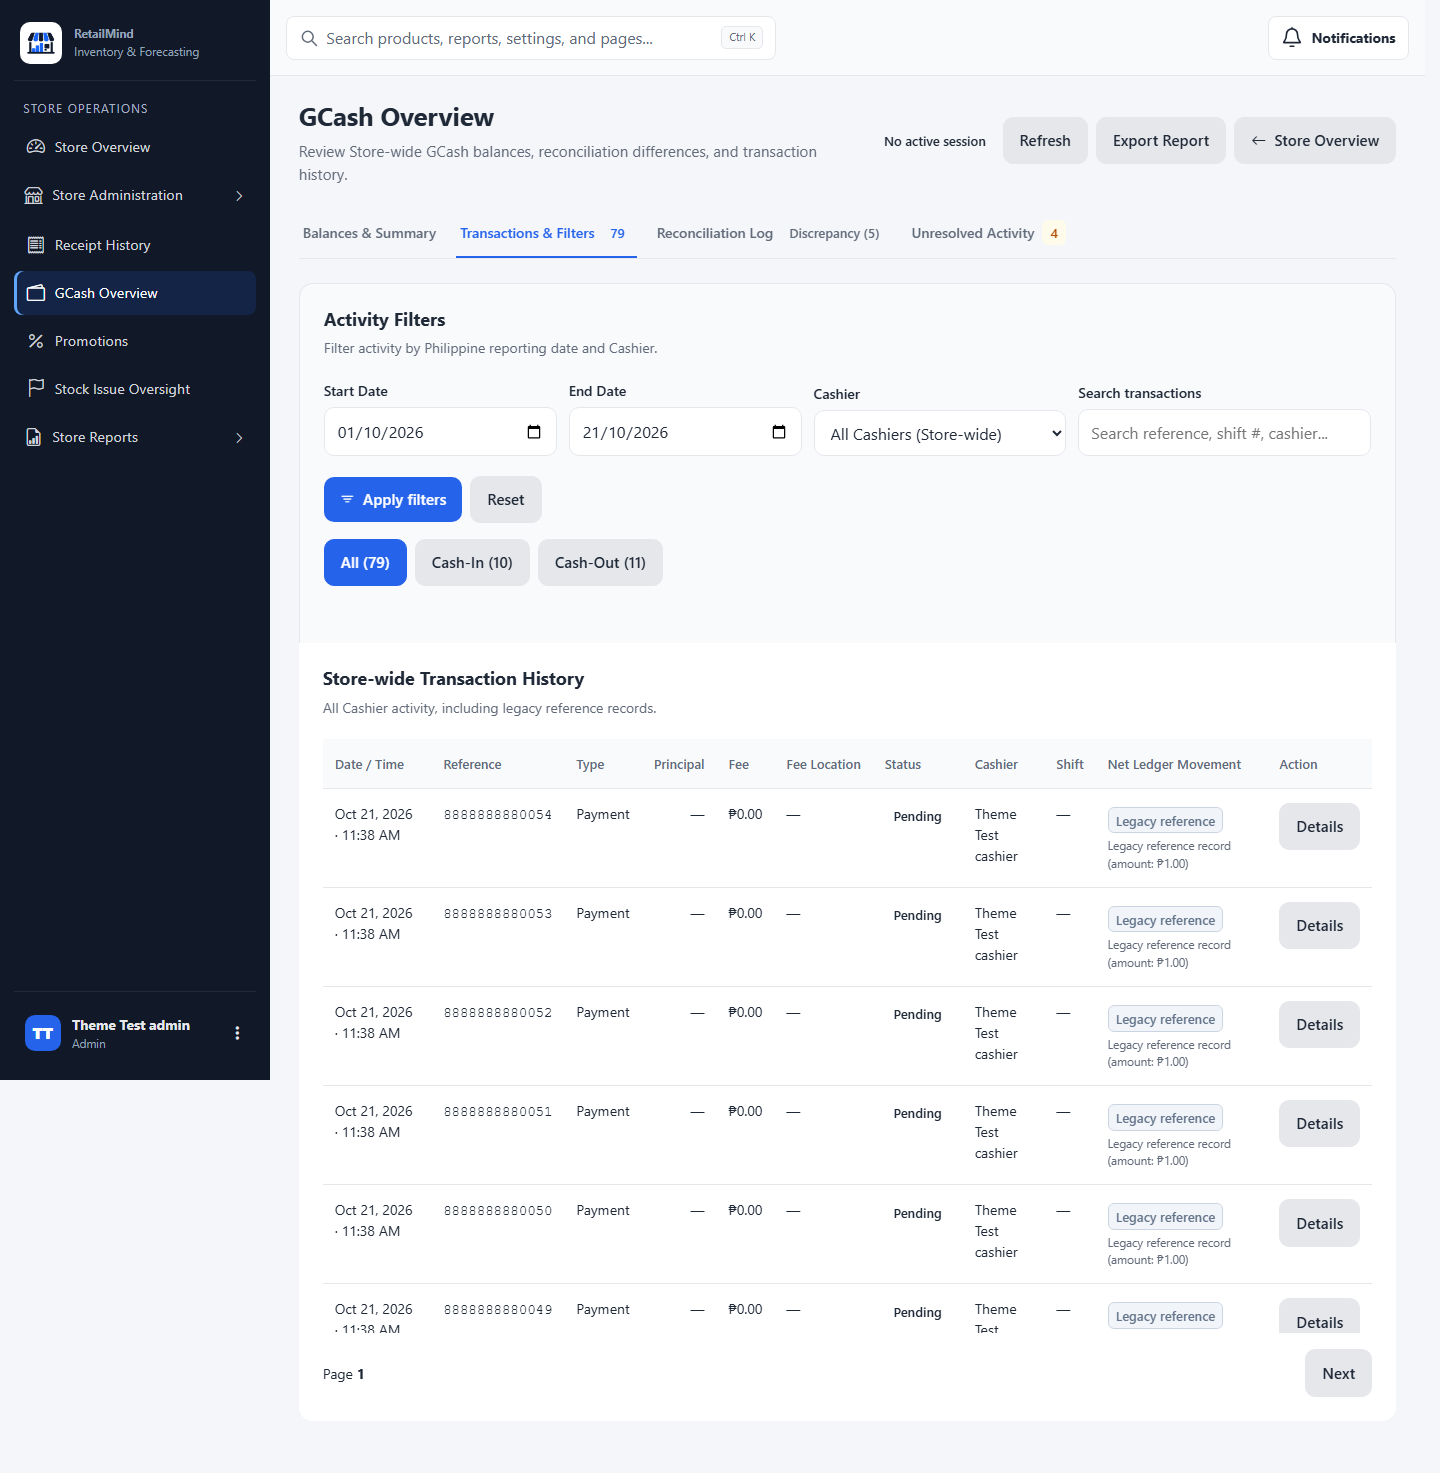
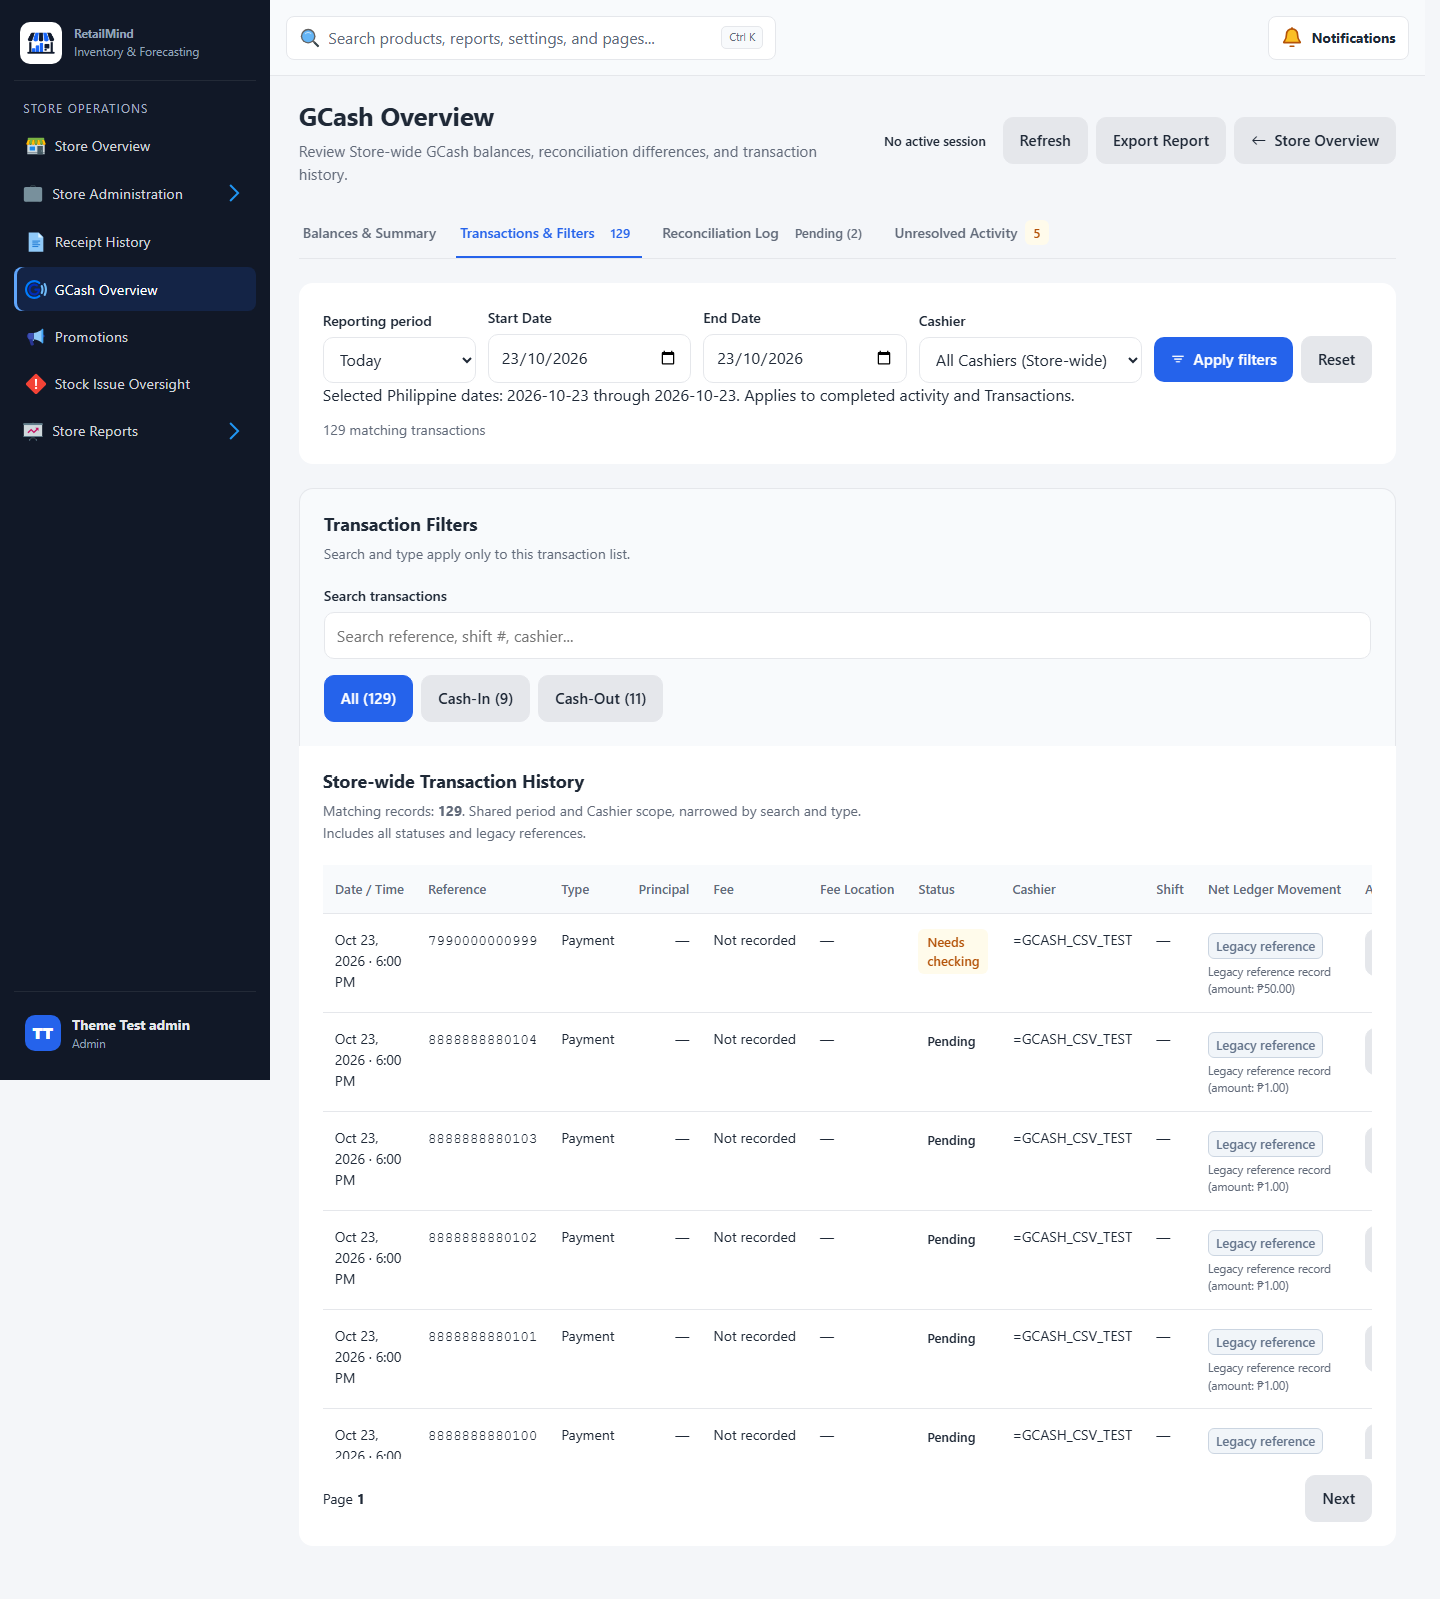
test(gcash): capture final overview desktop and mobile states (#276)

diff --git a/.impeccable/surfaces/gcash-admin-overview.md b/.impeccable/surfaces/gcash-admin-overview.md
@@ -43,3 +43,7 @@ Finish review identified one scored fix: long tables made a 50-row page excessiv
 - Final focused `gcash_admin_overview_browser_test.js` passed: Today/Month-to-date/custom scopes, independent fund and review evidence, all 105 filtered CSV rows across three pages, safe legacy/formula content, an isolated HTTP staging failure returning 503 without an attachment, request races, bounded tables, keyboard tabs, linked-adjustment details, authorization/CSRF, waiver and Verify & Clear.
 - Final QA captures in `.impeccable/review/`: `desktop.png`, `mobile.png`, `desktop-transactions.png`, `mobile-transactions.png`, `desktop-reconciliation.png`, `mobile-reconciliation.png`, `desktop-unresolved.png`, `mobile-unresolved.png`. Desktop: 1440×1080; mobile: 390×1080. These are QA screenshots, not shipping rasters; raster provenance does not apply.
 - No claim of exhaustive screen-reader, dark-theme, cross-browser or external GCash synchronization verification. Detector ran once; its advisories did not authorize a global redesign.
+
+## Specification #276 finish
+
+Disposition: ship. Desktop and mobile captures retain the four task sections, separate fund evidence, shared controls and bounded review tables. Standards review found no material issues. Both specification findings were fixed and verified: legacy unresolved fees/movements remain Not recorded, and failed review loads clear the inner pending count to Unavailable. Final Administrator and Cashier browser suites, each with disposable MySQL integration, passed after those fixes.
